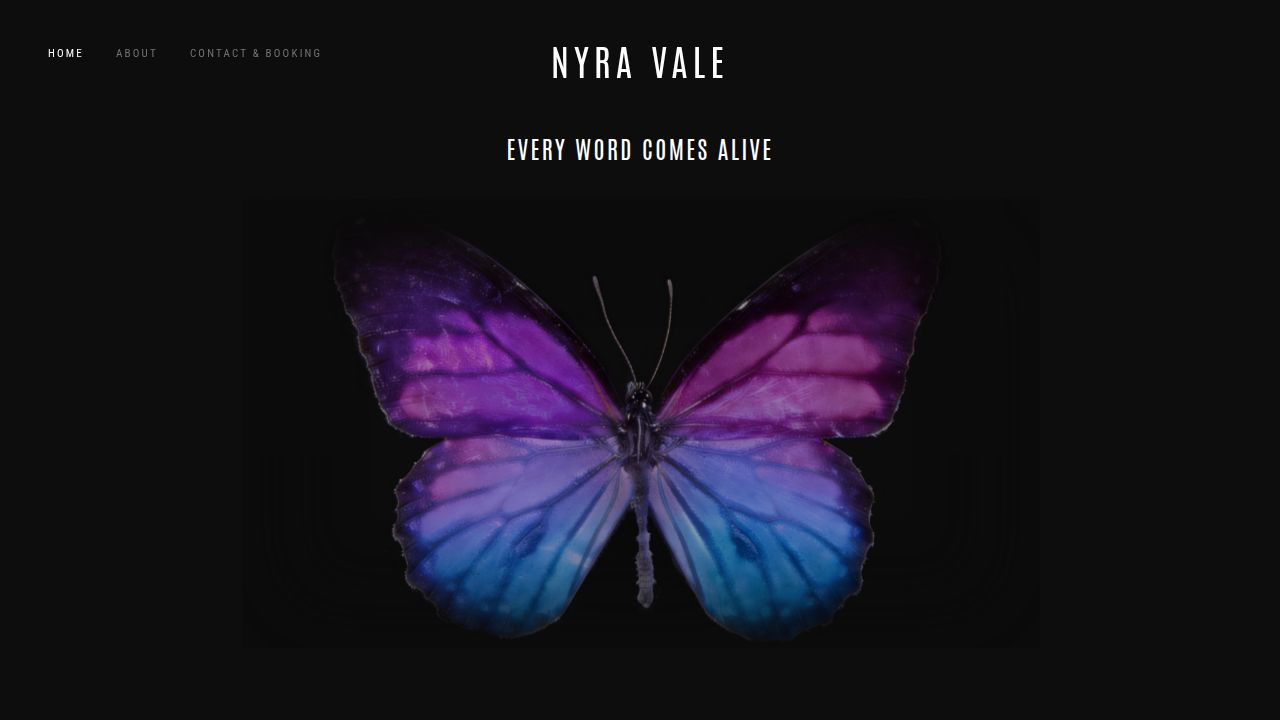
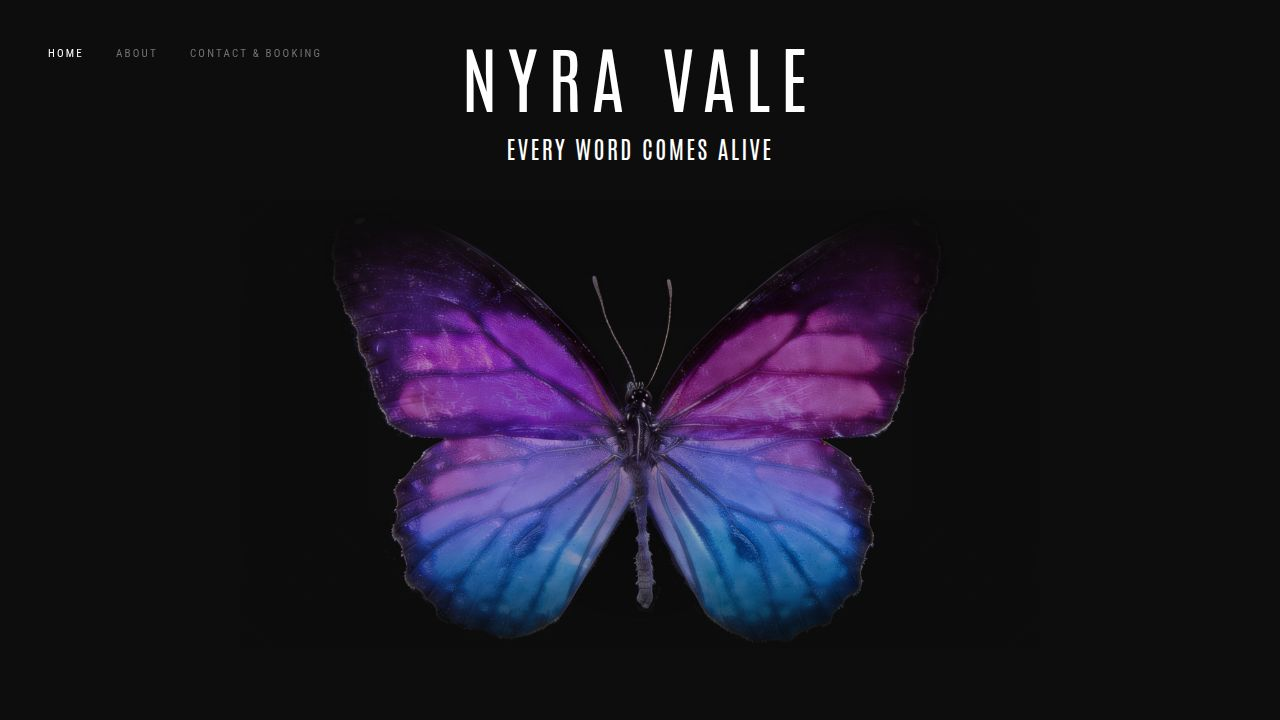
Increase size of main heading for better visual impact
Update the NYRA VALE heading font size in the Navbar component to text-6xl/7xl.

Replit-Commit-Author: Agent
Replit-Commit-Session-Id: abb7d197-0130-4365-8f3e-36aec6207882
Replit-Commit-Checkpoint-Type: full_checkpoint
Replit-Commit-Event-Id: 895d6c86-1670-4258-9c4b-06958400aa92
Replit-Commit-Screenshot-Url: https://storage.googleapis.com/screenshot-production-us-central1/acc114d5-8ff7-4aa1-90f1-90320e5e6cb7/abb7d197-0130-4365-8f3e-36aec6207882/dR24coR
Replit-Helium-Checkpoint-Created: true

Changed region(s): [[0.3438, 0.0611, 0.625, 0.1528]]

diff --git a/client/src/components/layout/Navbar.tsx b/client/src/components/layout/Navbar.tsx
@@ -31,7 +31,7 @@ export function Navbar() {
       {/* Center Logo - Absolute centered on desktop, relative on mobile */}
       <div className="md:absolute md:left-1/2 md:-translate-x-1/2 pointer-events-auto order-1 md:order-2">
         <Link href="/">
-          <a className="text-3xl md:text-4xl font-display uppercase tracking-[0.15em] text-white hover:opacity-80 transition-opacity">
+          <a className="text-6xl md:text-7xl font-display uppercase tracking-[0.15em] text-white hover:opacity-80 transition-opacity whitespace-nowrap">
             NYRA VALE
           </a>
         </Link>
